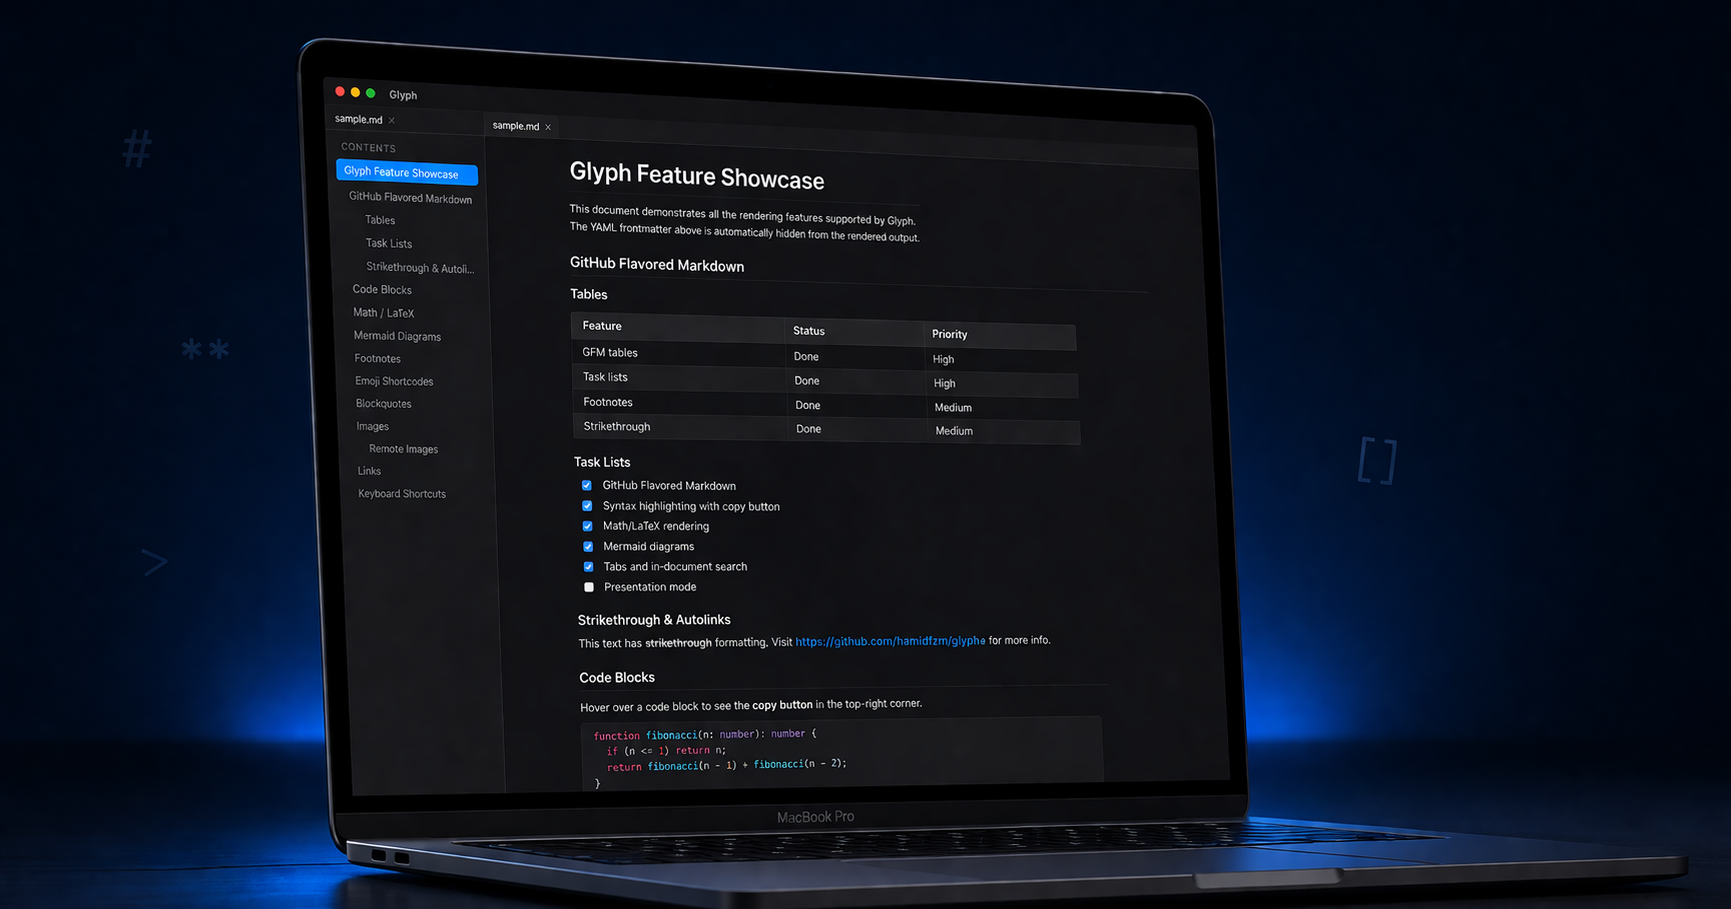
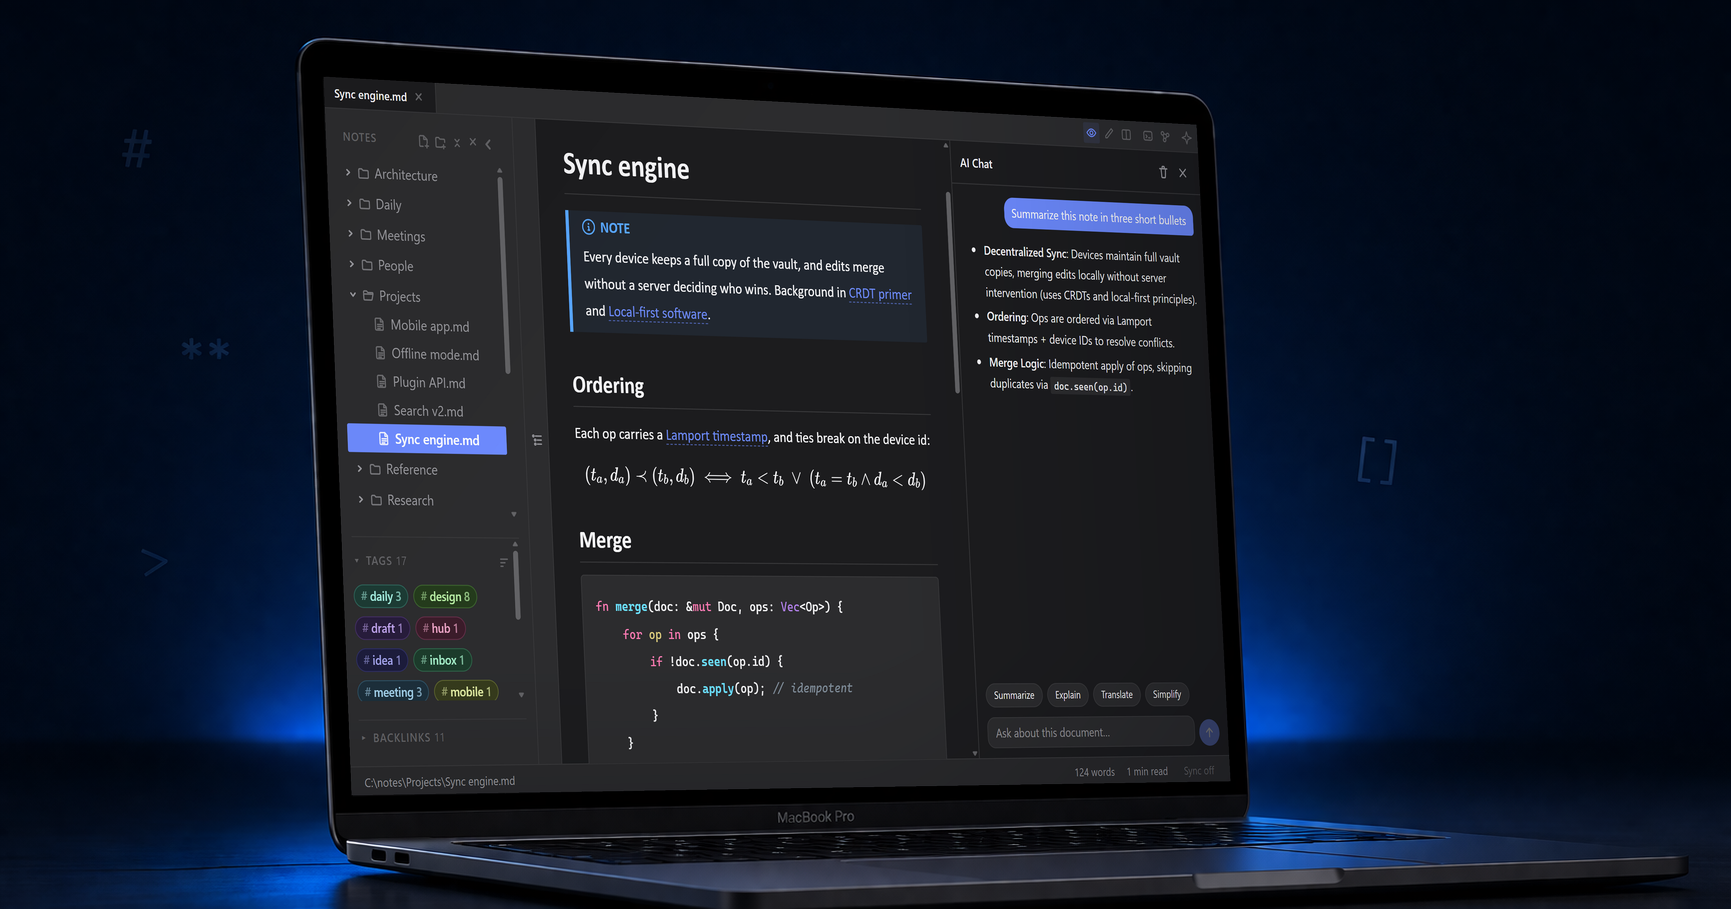
docs(readme): refresh the hero, demo, and feature list for the current UI (#1084)

diff --git a/README.md b/README.md
@@ -32,20 +32,20 @@ The [`samples/`](samples) directory is a tiny demo workspace. Open it as a folde
 - Wikilinks and backlinks with hover preview and inline note embeds (`[[note]]`, `![[note]]`)
 - Math (KaTeX), Mermaid and D2 diagrams, CSV/TSV tables, and syntax-highlighted code (6 themes)
 - YAML frontmatter, sanitised inline HTML, and bidirectional (RTL) text
-- Local and remote images with a zoomable lightbox, plus inline video and audio playback
+- Local and remote images and inline video and audio; images, diagrams, and tables open in a zoomable full-screen lightbox
 - Per-syntax toggles in Settings → Markdown
 
 ### Editor
-- Source, split, and live-preview modes per tab
+- Source, split (with synced scrolling), and live-preview modes per tab
 - New untitled (in-memory) documents (`Cmd/Ctrl+N`), save with `Cmd/Ctrl+S`, and an optional Auto Save toggle
-- Format toolbar, inline formatting shortcuts, and wrap-selection
+- Format toolbar, inline formatting shortcuts, wrap-selection, and pasted HTML converted to Markdown
 - Wikilink autocomplete, spell check, and Vim/VSCode keymaps
 - Undo/redo for programmatic edits (task toggles, etc.)
 
 ### Workspace & Navigation
 - Folder workspaces with a sidebar tree, tabs, and create/rename/move/delete (links follow renames and moves); create a new workspace from within the app; daily notes (`Cmd/Ctrl+Shift+T`) with a per-workspace folder, file name pattern, and template
 - Graph view (`Cmd/Ctrl+G`), command palette (`Cmd/Ctrl+K`, with `tag:` / frontmatter filters), a sidebar Tags panel, in-document search (`Cmd/Ctrl+F`), and workspace-wide full-text search with case/whole-word/regex toggles (`Cmd/Ctrl+Shift+F`)
-- Table of contents, resizable panels, zoom, and session/window restore
+- Table of contents, back/forward history, notes in their own window, resizable panels, zoom, and session/window restore
 - Drag-and-drop, file associations, Windows Explorer and macOS Quick Look previews, and a `glyph` CLI (`glyph file.md`, `glyph ~/notes/`)
 
 ### Viewer & Export
@@ -61,8 +61,9 @@ The [`samples/`](samples) directory is a tiny demo workspace. Open it as a folde
 - Localized, RTL-aware UI; customizable fonts, size, line height, and content width
 
 ### AI (optional)
-- Chat sidebar, quick actions (summarize, explain, translate, simplify), and text-to-speech
+- Chat sidebar, quick actions (summarize, explain, translate, simplify), and text-to-speech; the assistant can look up notes across the workspace (read-only)
 - Providers: Claude, OpenAI, and Ollama (local)
+- An MCP server (`glyph mcp`) that gives AI agents Glyph's view of a vault: resolved links, backlinks, tags, headings, the graph, and canvases, with tools that edit notes off until you turn each one on
 
 ### Platform
 - macOS, Windows, and Linux; native menu bar with remappable shortcuts and update notifications
@@ -101,6 +102,9 @@ glyph serve ~/notes/
 glyph serve ~/notes/ --port 8080          # pick the port; 0 asks the OS
 glyph serve ~/notes/ --host 0.0.0.0       # let the local network read it
 glyph serve ~/notes/ --out ./site         # keep the build instead of a temp dir
+
+# give an MCP client (an AI agent) Glyph's view of a vault, over stdio
+glyph mcp --vault ~/notes/
 ```
 
 `serve` renders the folder, prints the URL, and keeps running: every change to the folder rebuilds the site, and pages open in a browser reload themselves. It binds `127.0.0.1` unless `--host` says otherwise, so nothing leaves the machine by default, and it answers only to its own hostnames so a web page cannot reach it through your browser. Everything in the output directory is served, so point `--out` at a directory of its own; without one, the site lives in a temporary directory removed when you interrupt the command. Like the exports above, it renders through a webview, so a Linux server without a display needs `xvfb-run`.
